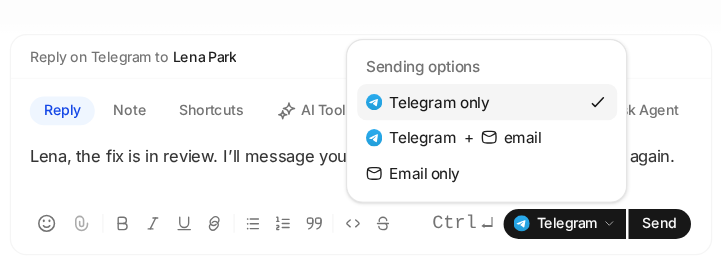
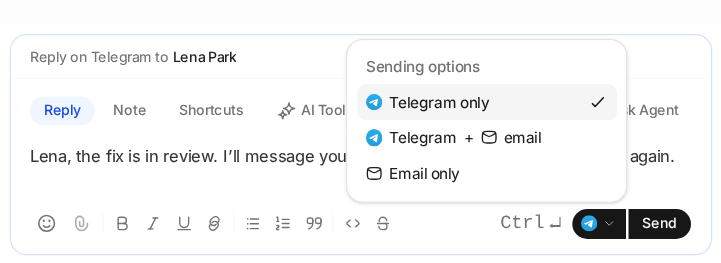
Match the closed provider picker to chat and email

Changed region(s): [[0.0305, 0.943, 0.9764, 0.9734], [0.0305, 0.1217, 0.9764, 0.1521], [0.5798, 0.7909, 0.8544, 0.9125]]

diff --git a/frontend/src/components/support/ReplyDeliverySelector.tsx b/frontend/src/components/support/ReplyDeliverySelector.tsx
@@ -18,13 +18,13 @@ function DeliveryIcons({ mode, ChatIcon }: { mode: SupportReplyDeliveryMode; Cha
   );
 }
 
-function DeliveryOptionLabel({ mode, chatName, ChannelIcon, compact = false }: { mode: SupportReplyDeliveryMode; chatName: string; ChannelIcon: IconComponent; compact?: boolean }) {
+function DeliveryOptionLabel({ mode, chatName, ChannelIcon }: { mode: SupportReplyDeliveryMode; chatName: string; ChannelIcon: IconComponent }) {
   return (
     <span className="inline-flex items-center gap-1.5 whitespace-nowrap">
       {mode !== "email_only" && (
         <span className="inline-flex items-center gap-1.5">
           <ChannelIcon aria-hidden="true" className="size-3.5" />
-          {mode === "chat_only" && !compact ? `${chatName} only` : chatName}
+          {mode === "chat_only" ? `${chatName} only` : chatName}
         </span>
       )}
       {mode === "chat_and_email" && <span>+</span>}
@@ -109,9 +109,7 @@ export function ReplyDeliverySelector({
           aria-label={`Sending options: ${current?.label ?? "Choose channel"}`}
           className="h-7 gap-1 rounded-l-full rounded-r-none border-r border-primary-foreground/25 px-2 text-xs"
         >
-          {!current ? "Choose channel" : current.provider
-            ? <DeliveryOptionLabel mode={mode} chatName={current.chatName} ChannelIcon={current.ChannelIcon} compact />
-            : <DeliveryIcons mode={mode} ChatIcon={current.ChannelIcon} />}
+          {current ? <DeliveryIcons mode={mode} ChatIcon={current.ChannelIcon} /> : "Choose channel"}
           <ArrowDown01Icon aria-hidden="true" className="size-3 opacity-70" />
         </Button>
       }

diff --git a/.mockups/slack/index.html b/.mockups/slack/index.html
@@ -40,10 +40,10 @@
     </nav>
   </header>
   <figure>
-    <a id="full" href="inbox.png?v=6" title="Open full-resolution screenshot">
-      <img id="screen" src="inbox.png?v=6" alt="Helpin support inbox showing Lena’s Slack thread and its linked task.">
+    <a id="full" href="inbox.png?v=7" title="Open full-resolution screenshot">
+      <img id="screen" src="inbox.png?v=7" alt="Helpin support inbox showing Lena’s Slack thread and its linked task.">
     </a>
-    <figcaption aria-live="polite"><span id="caption"></span><a id="incoming" href="incoming-detail.png?v=6" hidden>Enlarge message</a><a id="detail" hidden></a></figcaption>
+    <figcaption aria-live="polite"><span id="caption"></span><a id="incoming" href="incoming-detail.png?v=7" hidden>Enlarge message</a><a id="detail" hidden></a></figcaption>
   </figure>
 </main>
 <script>
@@ -62,7 +62,7 @@
       if (link.hash === '#' + id) link.setAttribute('aria-current', 'page')
       else link.removeAttribute('aria-current')
     }
-    const file = id + '.png?v=6'
+    const file = id + '.png?v=7'
     document.getElementById('screen').src = file
     document.getElementById('screen').alt = captions[id]
     document.getElementById('full').href = file
@@ -72,7 +72,7 @@
     const detailName = { inbox: 'composer', task: 'comment' }[id]
     detail.hidden = !detailName
     if (detailName) {
-      detail.href = detailName + '-detail.png?v=6'
+      detail.href = detailName + '-detail.png?v=7'
       detail.textContent = 'Enlarge ' + detailName
     }
   }

diff --git a/frontend/src/components/support/__tests__/ReplyComposerRewrite.test.tsx b/frontend/src/components/support/__tests__/ReplyComposerRewrite.test.tsx
@@ -192,7 +192,7 @@ describe('ReplyComposer AI loading state', () => {
     mocks.conversation = { source: provider, channel: provider, provider_destinations: [origin], customer_email: 'lena@example.com' };
     act(() => { root.render(<TooltipProvider><ReplyComposer workspaceId="ws-1" conversationId="conv-1" emailDeliveryEnabled /></TooltipProvider>); });
     expect(container.querySelector('[data-support-delivery-notice]')?.textContent).toBe(`Reply on ${label} to ${name}`);
-    expect(container.querySelector(`button[aria-label="Sending options: ${label} only"]`)?.textContent).toContain(label);
+    expect(container.querySelector(`button[aria-label="Sending options: ${label} only"]`)?.textContent).toBe('');
     await act(async () => button('Send').click());
     expect(mocks.send).toHaveBeenCalledWith(expect.objectContaining({ delivery_mode: 'chat_only', channels: ['chat'], provider_origin_id: 'origin' }));
     act(() => { useSupportInboxStore.setState({ replyMode: 'note' }); });
